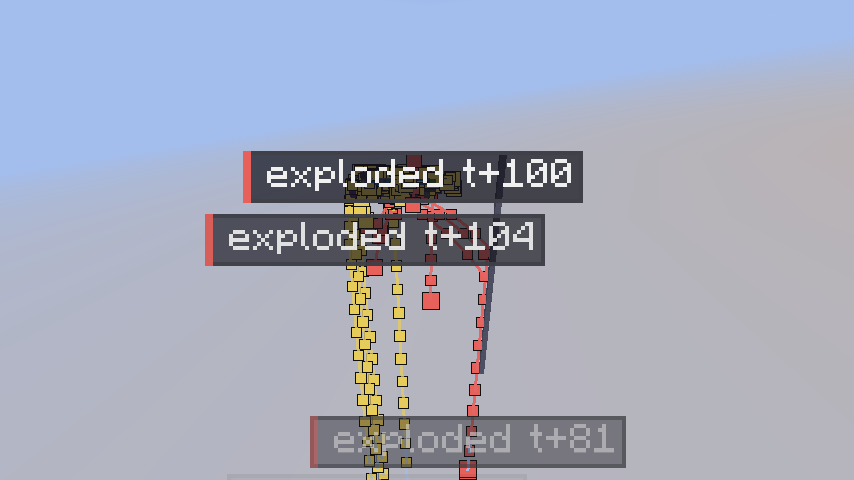
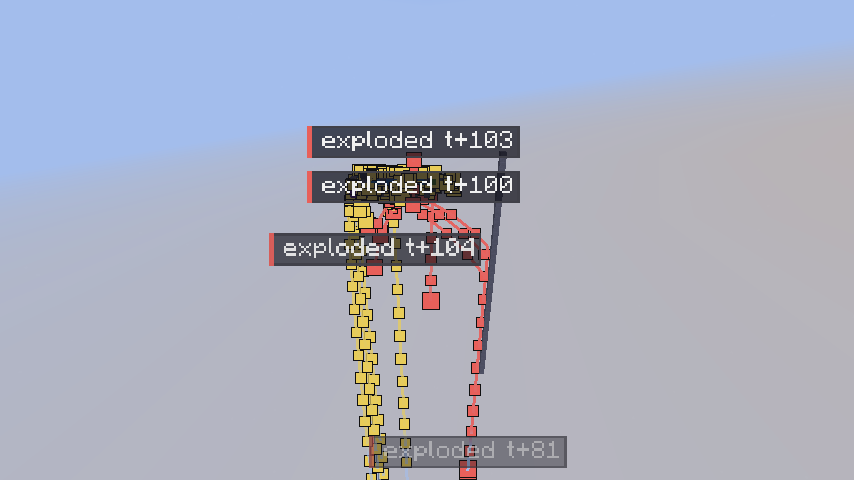
Smaller labels, short hover panel, hover options
Labels grow to 1.25x at most (was 2x), /path labels size <40-200>. Hover shows a
short panel by default (/path hover compact|full|key|off), /path hover range
<blocks> (default 32), /path hover anchor cursor|corner.

Claude-Session: https://claude.ai/code/session_0136gcuk1f4t4UN1LEqfmbGa

Changed region(s): [[0.2131, 0.25, 0.7002, 0.5625], [0.3653, 0.8438, 0.7307, 1.0]]

diff --git a/src/main/java/obsidivision/ghostpath/command/PathCommand.java b/src/main/java/obsidivision/ghostpath/command/PathCommand.java
@@ -105,6 +105,29 @@ public final class PathCommand {
             .then(Commands.literal("inspect")
                 .then(Commands.literal("hold").executes(ctx -> inspectMode(ctx.getSource(), false)))
                 .then(Commands.literal("toggle").executes(ctx -> inspectMode(ctx.getSource(), true))))
+            .then(Commands.literal("hover")
+                .then(Commands.literal("compact").executes(ctx -> hoverDetail(ctx.getSource(), "compact")))
+                .then(Commands.literal("full").executes(ctx -> hoverDetail(ctx.getSource(), "full")))
+                .then(Commands.literal("key").executes(ctx -> hoverDetail(ctx.getSource(), "key")))
+                .then(Commands.literal("off").executes(ctx -> hoverDetail(ctx.getSource(), "off")))
+                .then(Commands.literal("range")
+                    .then(Commands.argument("blocks", IntegerArgumentType.integer(1, (int) obsidivision.ghostpath.inspect.Picker.MAX_DISTANCE))
+                        .executes(ctx -> {
+                            PathSettings.hoverRange = IntegerArgumentType.getInteger(ctx, "blocks");
+                            ctx.getSource().sendSuccess(() -> Chat.info("Hover range: " + PathSettings.hoverRange + " blocks"), false);
+                            return 1;
+                        })))
+                .then(Commands.literal("anchor")
+                    .then(Commands.literal("cursor").executes(ctx -> hoverAnchor(ctx.getSource(), "cursor")))
+                    .then(Commands.literal("corner").executes(ctx -> hoverAnchor(ctx.getSource(), "corner")))))
+            .then(Commands.literal("labels")
+                .then(Commands.literal("size")
+                    .then(Commands.argument("percent", IntegerArgumentType.integer(40, 200))
+                        .executes(ctx -> {
+                            PathSettings.labelPercent = IntegerArgumentType.getInteger(ctx, "percent");
+                            ctx.getSource().sendSuccess(() -> Chat.info("Label size: " + PathSettings.labelPercent + "%"), false);
+                            return 1;
+                        }))))
             .then(Commands.literal("pins")
                 .then(Commands.literal("clear").executes(ctx -> pinsClear(ctx.getSource()))))
             .then(Commands.literal("interval")
@@ -229,6 +252,23 @@ public final class PathCommand {
     private static int inspectMode(CommandSourceStack source, boolean toggle) {
         PathSettings.inspectToggle = toggle;
         source.sendSuccess(() -> Chat.info("Inspect key: " + (toggle ? "press to switch on or off" : "hold")), false);
+        return 1;
+    }
+
+    private static int hoverDetail(CommandSourceStack source, String mode) {
+        PathSettings.hoverDetail = mode;
+        source.sendSuccess(() -> Chat.info("Hover: " + switch (mode) {
+            case "compact" -> "short panel";
+            case "full" -> "full panel, exact values";
+            case "key" -> "short panel, only while the inspect key is held";
+            default -> "off (the inspect key still hovers)";
+        }), false);
+        return 1;
+    }
+
+    private static int hoverAnchor(CommandSourceStack source, String anchor) {
+        PathSettings.hoverAnchor = anchor;
+        source.sendSuccess(() -> Chat.info("Hover panel: " + (anchor.equals("corner") ? "top left corner" : "beside the crosshair")), false);
         return 1;
     }
 

diff --git a/src/client/java/obsidivision/ghostpath/client/Inspector.java b/src/client/java/obsidivision/ghostpath/client/Inspector.java
@@ -179,12 +179,15 @@ public final class Inspector {
         if (!PathSettings.showPaths || level == null) {
             return;
         }
+        if (PathSettings.hoverDetail.equals("off") && !inspecting()) {
+            return;
+        }
         boolean here = s != null && level.dimension().identifier().toString().equals(s.dimension());
         Camera camera = mc.gameRenderer.mainCamera();
         Vec3 origin = camera.position();
         Vector3fc f = camera.forwardVector();
         Vec3 dir = new Vec3(f.x(), f.y(), f.z());
-        double max = Picker.MAX_DISTANCE;
+        double max = Math.min(Picker.MAX_DISTANCE, PathSettings.hoverRange);
         if (!inspecting()) { // a block in the way hides what is behind it
             HitResult block = level.clip(new ClipContext(origin, origin.add(dir.scale(max)), ClipContext.Block.COLLIDER, ClipContext.Fluid.NONE, CollisionContext.empty()));
             if (block.getType() != HitResult.Type.MISS) {
@@ -428,12 +431,19 @@ public final class Inspector {
         GhostHover ghost = hoverGhost;
         TailHover tail = hoverTail;
         List<String> hover = hoverPanel(ghost);
+        if (PathSettings.hoverDetail.equals("key") && !inspecting()) {
+            hover = List.of();
+        } else if (!PathSettings.hoverDetail.equals("full") && !hover.isEmpty()) {
+            hover = PanelText.compact(hover);
+        }
         lastHoverPanel = hover;
         if (!hover.isEmpty() && !(ghost != null && PINS.contains(pinOf(ghost)))) { // a pinned point is shown by its pin
             panelsDrawn++;
             int color = hoverSaved != null ? PathRenderer.color(hoverSaved.path().kind()) : ghost != null ? PathRenderer.color(ghost.path().kind()) : tail != null ? PathRenderer.color(tail.snapshot().lines().get(tail.line()).kind()) : Style.REAL_COLOR;
             Measured ms = measure(font, hover);
-            PanelLayout.Rect r = PanelLayout.beside(g.guiWidth(), g.guiHeight(), g.guiWidth() / 2, g.guiHeight() / 2, ms.w(), ms.h(), 14, 2); // flips to the left at the right edge
+            PanelLayout.Rect r = PathSettings.hoverAnchor.equals("corner")
+                ? PanelLayout.clamp(g.guiWidth(), g.guiHeight(), 6, 6, ms.w(), ms.h(), 2)
+                : PanelLayout.beside(g.guiWidth(), g.guiHeight(), g.guiWidth() / 2, g.guiHeight() / 2, ms.w(), ms.h(), 14, 2); // flips to the left at the right edge
             panel(g, font, ms, r.x(), r.y(), color);
         }
         // pins down the right edge; when the next does not fit above the bottom, a new column to the left

diff --git a/src/main/java/obsidivision/ghostpath/inspect/PanelText.java b/src/main/java/obsidivision/ghostpath/inspect/PanelText.java
@@ -121,6 +121,41 @@ public final class PanelText {
         vector(out, "in block", x - Math.floor(x), y - Math.floor(y), z - Math.floor(z));
     }
 
+    /**
+     * The short form of a panel ({@code /path hover compact}): the header, the position and the velocity on one line each (rounded), and the lines
+     * that say what happens (fuse, end, frozen, stack count, real/saved notes). Dropped: the entity id line, the block and in-block rows, "single".
+     */
+    public static List<String> compact(List<String> lines) {
+        List<String> out = new ArrayList<>();
+        String[] pos = new String[3];
+        String[] vel = new String[3];
+        for (int i = 0; i < lines.size(); i++) {
+            String l = lines.get(i);
+            if (i == 0 || l.equals("PIN")) {
+                out.add(l);
+            } else if (l.startsWith("pos ") || l.startsWith("vel ")) {
+                String[] t = l.split(" ", 3);
+                int axis = t[1].charAt(0) - 'x';
+                double v;
+                try {
+                    v = Double.parseDouble(t[2]);
+                } catch (NumberFormatException e) {
+                    continue;
+                }
+                (t[0].equals("pos") ? pos : vel)[axis] = String.format(java.util.Locale.ROOT, t[0].equals("pos") ? "%.2f" : "%.3f", v);
+                if (axis == 2) {
+                    String[] a = t[0].equals("pos") ? pos : vel;
+                    out.add(t[0] + " " + a[0] + ", " + a[1] + ", " + a[2]);
+                }
+            } else if (l.startsWith("entity ") || l.startsWith("block ") || l.startsWith("in block ") || l.equals("single") || l.startsWith("client-side copy")) {
+                continue;
+            } else {
+                out.add(l);
+            }
+        }
+        return out;
+    }
+
     private static void vector(List<String> out, String name, double x, double y, double z) {
         out.add(name + " x " + x);
         out.add(name + " y " + y);

diff --git a/src/main/java/obsidivision/ghostpath/PathSettings.java b/src/main/java/obsidivision/ghostpath/PathSettings.java
@@ -44,6 +44,18 @@ public final class PathSettings {
 
     /** {@code /path inspect hold|toggle}: whether the inspect key works while it is held (default) or each press switches it on or off. */
     public static volatile boolean inspectToggle = false;
+    /**
+     * {@code /path hover compact|full|key|off}: what the crosshair hover shows. compact (default): a few lines (type, tick, position and velocity
+     * rounded, fuse / end); full: every line with the exact doubles; key: compact, but only while the inspect key is held; off: no hover
+     * (the inspect key still hovers, for pins).
+     */
+    public static volatile String hoverDetail = "compact";
+    /** {@code /path hover range <blocks>}: how far the hover ray reaches (at most {@code Picker.MAX_DISTANCE}). */
+    public static volatile int hoverRange = 32;
+    /** {@code /path hover anchor cursor|corner}: the hover panel beside the crosshair, or in the top left corner. */
+    public static volatile String hoverAnchor = "cursor";
+    /** {@code /path labels size <percent>}: multiplies the size of the labels on the paths (100 = normal). */
+    public static volatile int labelPercent = 100;
     /** {@code /path pins clear}: raised each time; the client clears its pins when it sees a new value. */
     public static volatile int pinsClearSerial = 0;
 

diff --git a/src/gametest/java/obsidivision/ghostpath/test/InspectorTest.java b/src/gametest/java/obsidivision/ghostpath/test/InspectorTest.java
@@ -48,6 +48,16 @@ public class InspectorTest {
         return Picker.pick(s, origin, dir, max, l -> 0.0);
     }
 
+    /** The short panel keeps what happens and rounds the numbers; nothing is invented, the full lines stay the source. */
+    @GameTest
+    public void theCompactPanelIsShortAndKeepsTheFacts(GameTestHelper helper) {
+        List<String> full = List.of("minecraft:tnt  t+16  (recorded)", "entity #6", "pos x -32.0199999713", "pos y 25.28808940827", "pos z -212.5100000095",
+            "block -33 25 -213", "in block x 0.98", "in block y 0.28", "in block z 0.48", "vel x 0.96040003738", "vel y -0.4828", "vel z 0.0", "fuse 65", "single");
+        List<String> c = PanelText.compact(full);
+        helper.assertTrue(c.equals(List.of("minecraft:tnt  t+16  (recorded)", "pos -32.02, 25.29, -212.51", "vel 0.960, -0.483, 0.000", "fuse 65")), "compact: " + c);
+        helper.succeed();
+    }
+
     @GameTest
     public void aRayPicksThePathPointItPassesNearest(GameTestHelper helper) {
         List<FlightPoint> pts = new ArrayList<>();

diff --git a/src/gametest/java/obsidivision/ghostpath/test/StyleTest.java b/src/gametest/java/obsidivision/ghostpath/test/StyleTest.java
@@ -51,7 +51,7 @@ public class StyleTest {
                 lastLabel = lb;
                 lastDot = ds;
             }
-            helper.assertTrue(st.labelScale(0) == 1.0F && st.labelScale(1000) == 2.0F && st.labelDistanceAlpha(1000) == 0.0, st.name() + ": label scale/fade ends");
+            helper.assertTrue(st.labelScale(0) == 1.0F && st.labelScale(1000) == 1.25F && st.labelDistanceAlpha(1000) == 0.0, st.name() + ": label scale/fade ends");
             // toast: fades in, holds, fades out
             helper.assertTrue(st.toastAlpha(0) == 0.0 && st.toastAlpha(st.toastIn() + 0.01) == 1.0 && st.toastAlpha(st.toastSeconds() + 1e-9) == 0.0 && st.toastAlpha(st.toastIn() / 2) > 0.0
                 && st.toastAlpha(st.toastIn() + st.toastHold() + st.toastOut() / 2) > 0.0 && st.toastAlpha(st.toastIn() + st.toastHold() + st.toastOut() / 2) < 1.0, st.name() + ": toast curve");

diff --git a/src/main/java/obsidivision/ghostpath/style/Style.java b/src/main/java/obsidivision/ghostpath/style/Style.java
@@ -148,10 +148,10 @@ public record Style(
         return dist >= this.labelFadeEnd ? 0.0 : 1.0 - (dist - this.labelFadeStart) / (this.labelFadeEnd - this.labelFadeStart);
     }
 
-    /** Scale of a label's text at {@code dist}: 1 up to {@code labelNear} blocks, growing to 2x at {@code labelFar}. */
+    /** Scale of a label's text at {@code dist}: 1 up to {@code labelNear} blocks, growing to 1.25x at {@code labelFar}, times {@code /path labels size}. */
     public float labelScale(double dist) {
         double f = dist <= this.labelNear ? 0.0 : dist >= this.labelFar ? 1.0 : (dist - this.labelNear) / (this.labelFar - this.labelNear);
-        return (float) (1.0 + f);
+        return (float) ((1.0 + 0.25 * f) * PathSettings.labelPercent / 100.0);
     }
 
     /** Alpha (0..1) of a toast {@code elapsed} seconds after it appeared: fades in, holds, fades out, then 0. */

diff --git a/src/gametest/java/obsidivision/ghostpath/test/SavedAnimClientGameTest.java b/src/gametest/java/obsidivision/ghostpath/test/SavedAnimClientGameTest.java
@@ -40,6 +40,7 @@ public class SavedAnimClientGameTest implements FabricClientGameTest {
 
     @Override
     public void runTest(ClientGameTestContext context) {
+        obsidivision.ghostpath.PathSettings.hoverDetail = "full"; // the tests read the exact lines
         try (TestSingleplayerContext singleplayer = context.worldBuilder().create()) {
             TestServerContext server = singleplayer.getServer();
             BlockPos[] machine = new BlockPos[2];

diff --git a/src/gametest/java/obsidivision/ghostpath/test/ClientPreviewGameTest.java b/src/gametest/java/obsidivision/ghostpath/test/ClientPreviewGameTest.java
@@ -46,6 +46,7 @@ public class ClientPreviewGameTest implements FabricClientGameTest {
 
     @Override
     public void runTest(ClientGameTestContext context) {
+        obsidivision.ghostpath.PathSettings.hoverDetail = "full"; // the tests read the exact lines
         try (TestSingleplayerContext singleplayer = context.worldBuilder().create()) {
             TestServerContext server = singleplayer.getServer();
             BlockPos[] machine = new BlockPos[2];

diff --git a/src/gametest/java/obsidivision/ghostpath/test/InspectorGameTest.java b/src/gametest/java/obsidivision/ghostpath/test/InspectorGameTest.java
@@ -51,6 +51,7 @@ public class InspectorGameTest implements FabricClientGameTest {
 
     @Override
     public void runTest(ClientGameTestContext context) {
+        obsidivision.ghostpath.PathSettings.hoverDetail = "full"; // the tests read the exact lines
         try (TestSingleplayerContext singleplayer = context.worldBuilder().create()) {
             TestServerContext server = singleplayer.getServer();
             BlockPos[] machine = new BlockPos[2];
